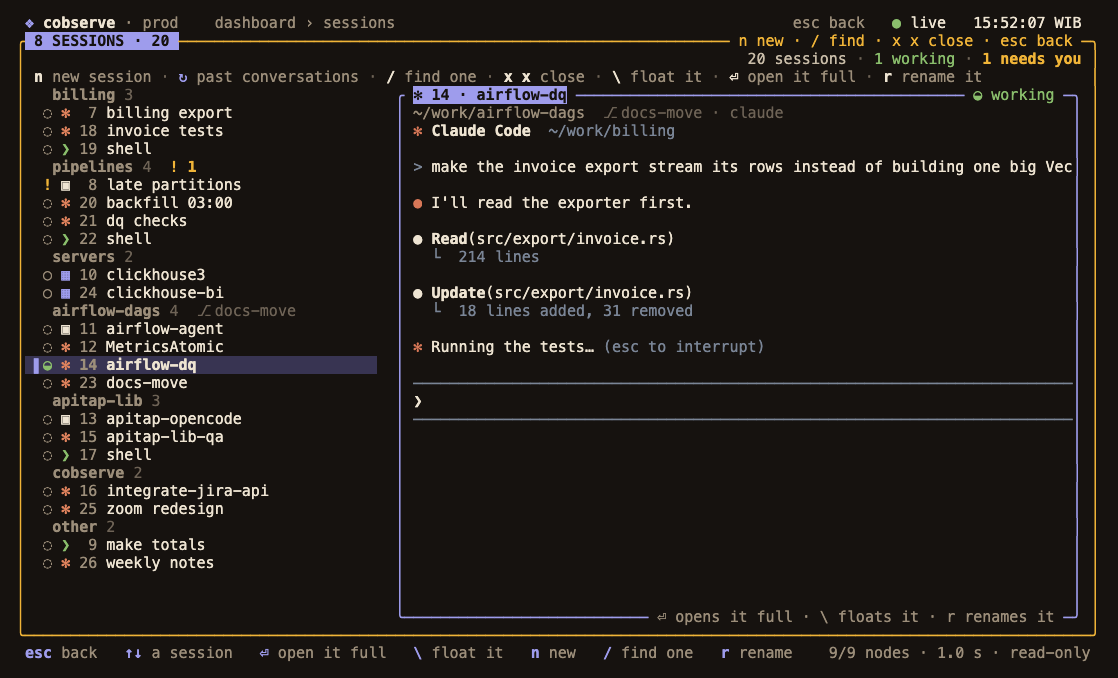
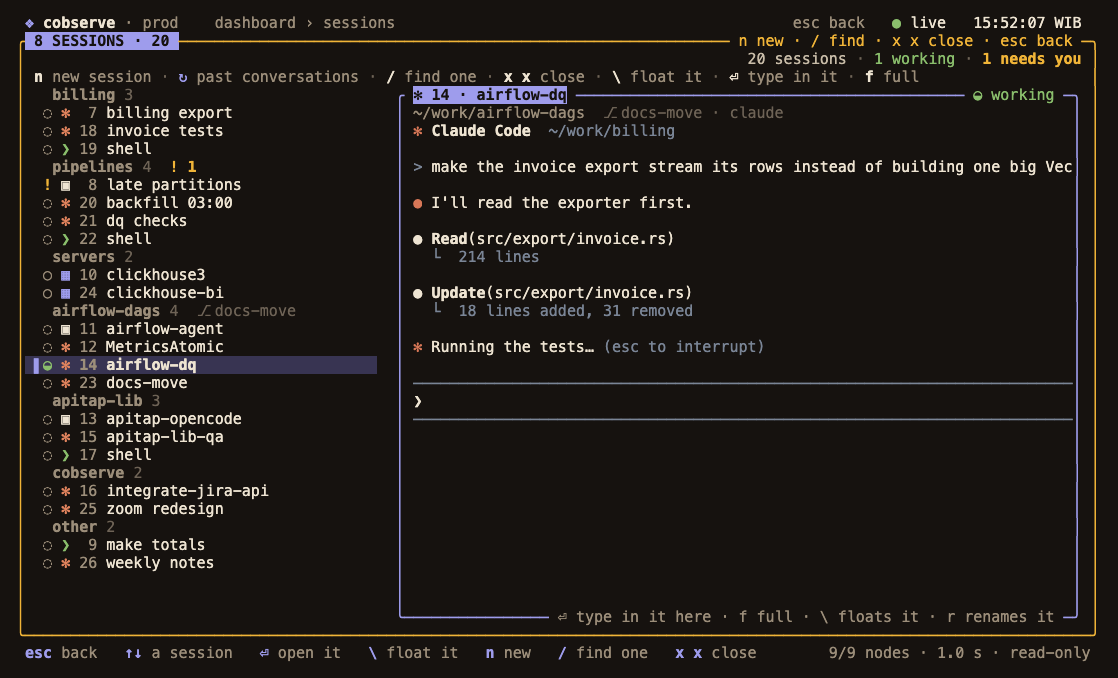
Type in the sessions preview, beside the list
With the list and the preview on screen, Enter now opens the chosen
session in the preview: its program takes every key, its PTY sized to the
preview, while the list stays in sight and the hint line says where the
keys go. ctrl+\ comes back to the list. f opens the session edge to edge
under the bar of tabs, which is what Enter still does on the grid, where
there is no preview to type in. A session opened from the picker opens
the same way.

Whether there is a preview is worked out from the terminal's size, so the
choice does not depend on the last frame drawn. A test covers both modes
and the way back; the sessions screens and screenshots are regenerated.

diff --git a/src/ui2/views/claude.rs b/src/ui2/views/claude.rs
@@ -108,6 +108,45 @@ pub fn draw(frame: &mut Frame, app: &App, theme: &Theme, inside: Rect) {
         pane(frame, app, theme, inside);
         return;
     }
+    let n = app.claude.list.len();
+    let shape = shape(inside.width, inside.height, n);
+    app.shell.sessions_preview.set(matches!(shape, Shape::List { preview_w: Some(_), .. }));
+    // Opened in the preview: the list stays, the program has the keys.
+    if app.shell.sessions_full
+        && !app.shell.sessions_spread
+        && let Shape::List { list_w, preview_w: Some(w) } = shape
+        && n > 0
+    {
+        let pane_r = {
+            let mut p = Painter::new(frame.buffer_mut());
+            let clip = Rect::new(inside.x.saturating_sub(1), inside.y, inside.width + 2, inside.height);
+            p.within(clip, |p| {
+                strip(p, app, theme, inside);
+                let top = if inside.height >= 16 {
+                    typing_hints(p, app, theme, Rect::new(inside.x, inside.y + 1, inside.width, 1));
+                    inside.y + 2
+                } else {
+                    inside.y + 1
+                };
+                let body = Rect::new(inside.x, top, inside.width, inside.bottom().saturating_sub(top));
+                let mut hits = Vec::new();
+                let page = list(p, app, theme, Rect::new(body.x, body.y, list_w, body.height), &mut hits);
+                app.shell.sessions_shape.set((0, page));
+                app.viewport.hits.borrow_mut().extend(hits);
+                let r = Rect::new(body.right() - w, body.y, w, body.height);
+                let index = app.claude.active;
+                let session = &app.claude.list[index];
+                let card = super::kit::Card::new(theme.accent())
+                    .title(card_title(app, session, index, true, theme))
+                    .right(state_spans(app, session, theme))
+                    .bottom(vec![Span::styled("typing here · ctrl+\\ the list", theme.muted())]);
+                let inner = card.draw(p, r);
+                Rect::new(inner.x, inner.y, inner.width + 1, inner.height)
+            })
+        };
+        pane(frame, app, theme, pane_r);
+        return;
+    }
     if app.shell.sessions_full && !app.claude.list.is_empty() {
         let bar = Rect::new(inside.x, inside.y, inside.width, 1);
         frame.render_widget(Paragraph::new(session_bar(app, theme, bar)), bar);
@@ -116,8 +155,6 @@ pub fn draw(frame: &mut Frame, app: &App, theme: &Theme, inside: Rect) {
     }
     // Every PTY keeps the size it has opened full: a thumbnail is a crop, never a resize.
     app.claude.want_size.set((inside.height.saturating_sub(1).max(1), inside.width));
-    let n = app.claude.list.len();
-    let shape = shape(inside.width, inside.height, n);
     let mut p = Painter::new(frame.buffer_mut());
     let clip = Rect::new(inside.x.saturating_sub(1), inside.y, inside.width + 2, inside.height);
     p.within(clip, |p| {
@@ -184,6 +221,18 @@ fn strip(p: &mut Painter<'_>, app: &App, theme: &Theme, i: Rect) {
     super::kit::put_spans_r(p, i.right(), i.y, counts.into_spans());
 }
 
+/// While typing in the preview: where the keys go, and the way back.
+fn typing_hints(p: &mut Painter<'_>, app: &App, theme: &Theme, r: Rect) {
+    let mut cells = Cells::new();
+    let who = app.claude.current().map(|s| s.label()).unwrap_or_default();
+    cells.push("⌨ ", theme.accent());
+    cells.push(format!("keys go to {who}"), theme.text2());
+    cells.push(" · ", theme.faint());
+    cells.push("ctrl+\\ ", theme.strong());
+    cells.push("the list", theme.muted());
+    super::kit::put_cells(p, r.x, r.y, cells, r.width as usize);
+}
+
 /// The keys that act here — or, while finding, the search field.
 fn hints(p: &mut Painter<'_>, app: &App, theme: &Theme, r: Rect) {
     let sessions = &app.claude;
@@ -217,9 +266,9 @@ fn hints(p: &mut Painter<'_>, app: &App, theme: &Theme, r: Rect) {
     cells.push(if narrow { "resume" } else { "past conversations" }, theme.muted());
     let resume_w = cells.width() as u16 - resume_x;
     let rest: [(&str, &str); 5] = if narrow {
-        [("/", "find"), ("x x", "close"), ("\\", "float"), ("⏎", "full"), ("r", "rename")]
+        [("/", "find"), ("x x", "close"), ("\\", "float"), ("⏎", "open"), ("f", "full")]
     } else {
-        [("/", "find one"), ("x x", "close"), ("\\", "float it"), ("⏎", "open it full"), ("r", "rename it")]
+        [("/", "find one"), ("x x", "close"), ("\\", "float it"), ("⏎", "type in it"), ("f", "full")]
     };
     for (key, word) in rest.into_iter().filter(|(key, _)| !(full && *key == "x x")) {
         cells.push(" · ", theme.faint());
@@ -314,7 +363,8 @@ fn session_card(p: &mut Painter<'_>, app: &App, theme: &Theme, r: Rect, index: u
     };
     let mut card = super::kit::Card::new(frame_style).title(card_title(app, session, index, lit, theme)).right(state_spans(app, session, theme));
     if lit {
-        card = card.bottom(vec![Span::styled("⏎ opens it full · \\ floats it · r renames it", theme.muted())]);
+        let open = if app.shell.sessions_preview.get() { "⏎ type in it here · f full" } else { "⏎ opens it full" };
+        card = card.bottom(vec![Span::styled(format!("{open} · \\ floats it · r renames it"), theme.muted())]);
     }
     let inner = card.draw(p, r);
     if inner.height == 0 {

diff --git a/src/ui2/views/tests.rs b/src/ui2/views/tests.rs
@@ -279,7 +279,7 @@ fn sessions_are_a_list_beside_claude_and_can_be_renamed() {
     assert!(screen.contains("n new session") && screen.contains("↻ past conversations"), "{screen}");
     // The zoom's keys are on the status bar.
     let keys = footer(&screen);
-    assert!(keys.contains("↑↓ a session") && keys.contains("⏎ open it full") && keys.contains("\\ float it"), "{keys}");
+    assert!(keys.contains("↑↓ a session") && keys.contains("⏎ open it") && keys.contains("\\ float it"), "{keys}");
     // x twice closes the session on screen.
     app.update(key(KeyCode::Char('x')));
     assert!(render(&app, 140, 40).contains("x again closes the session"));
@@ -1251,6 +1251,7 @@ fn fifty_sessions_fit_the_list_which_follows_the_one_on_screen_and_finds_one_by_
     // Opened full on a narrow terminal, the tabs round the one on screen, and how many either
     // side.
     app.shell.sessions_full = true;
+    app.shell.sessions_spread = true;
     let narrow = render(&app, 90, 30);
     let bar = row(&narrow, " 40 ");
     assert!(bar.contains("‹ ") && bar.contains(" ›"), "{narrow}");
@@ -1824,4 +1825,40 @@ fn twenty_sessions_are_a_list_with_a_preview_and_six_a_grid() {
     for (w, h) in [(40, 12), (80, 24), (250, 70)] {
         render(&app, w, h);
     }
+}
+
+#[test]
+fn enter_types_in_the_preview_beside_the_list_and_f_opens_it_edge_to_edge() {
+    let mut app = app_after(5);
+    crate::ui2::tests::with_many_sessions(&mut app, 20);
+    zoom(&mut app, 8);
+    app.shell.last_size.set((120, 36));
+    render(&app, 120, 36);
+    // ⏎: the program has the keys, the list stays in sight beside it.
+    app.update(key(KeyCode::Enter));
+    assert!(app.shell.sessions_full && !app.shell.sessions_spread);
+    let screen = render(&app, 120, 36);
+    assert!(screen.contains("keys go to airflow-dq") && screen.contains("weekly notes"), "the list beside it: {screen}");
+    assert!(screen.contains("typing here · ctrl+\\ the list"), "{screen}");
+    assert!(app.viewport.hits.borrow().iter().any(|(_, h)| *h == crate::app::Hit::Pane), "the preview takes the mouse");
+    let (rows, cols) = app.claude.want_size.get();
+    assert!(cols < 80 && rows > 20, "the program sized to the preview: {rows}×{cols}");
+    // A key is the program's: `f` does not leave.
+    app.update(key(KeyCode::Char('f')));
+    assert!(app.shell.sessions_full && !app.shell.sessions_spread);
+    // ctrl+\ back to the list; `f` there opens it edge to edge.
+    app.update(ctrl('\\'));
+    assert!(!app.shell.sessions_full);
+    app.update(key(KeyCode::Char('f')));
+    assert!(app.shell.sessions_full && app.shell.sessions_spread);
+    let screen = render(&app, 120, 36);
+    assert!(!screen.contains("weekly notes ") || screen.contains("‹"), "edge to edge, the others on a bar: {screen}");
+    // On the grid there is no preview: ⏎ opens it edge to edge.
+    app.update(ctrl('\\'));
+    let mut few = app_after(5);
+    crate::ui2::tests::with_many_sessions(&mut few, 3);
+    zoom(&mut few, 8);
+    few.shell.last_size.set((120, 36));
+    few.update(key(KeyCode::Enter));
+    assert!(few.shell.sessions_full && few.shell.sessions_spread);
 }

diff --git a/src/action.rs b/src/action.rs
@@ -181,7 +181,8 @@ pub static ACTIONS: &[Action] = &[
     Action { id: "tape-note", label: "note", phrase: "note on the tape", detail: "a line of yours, kept with the events", keys: &["n"], shown: "n", scope: Scope::Zoomed(PanelId::Tape), rank: 3, enabled: always, run: |app, _| app.shell.note = Some(String::new()) },
     Action { id: "tape-export", label: "export report", phrase: "export the incident report", detail: "markdown with every denominator (feature B3)", keys: &["y"], shown: "y", scope: Scope::Zoomed(PanelId::Tape), rank: 4, enabled: always, run: later },
     Action { id: "sessions-choose", label: "a session", phrase: "choose a session", detail: "↑↓ one by one · ←→ the card beside, or the next project · PgUp PgDn a page", keys: &["Up", "Down", "j", "k", "Left", "Right", "h", "l", "PageUp", "PageDown", "Home", "End"], shown: "↑↓", scope: Scope::Zoomed(PanelId::Sessions), rank: 1, enabled: always, run: crate::ui2::nav::choose },
-    Action { id: "sessions-open", label: "open it full", phrase: "open the session full", detail: "its program takes every key · ctrl+\\ comes back", keys: &["Enter"], shown: "⏎", scope: Scope::Zoomed(PanelId::Sessions), rank: 2, enabled: always, run: |app, _| crate::ui2::sessions::open_full(app) },
+    Action { id: "sessions-open", label: "open it", phrase: "open the session", detail: "its program takes every key — in the preview beside the list, or edge to edge on the grid · ctrl+\\ comes back", keys: &["Enter"], shown: "⏎", scope: Scope::Zoomed(PanelId::Sessions), rank: 2, enabled: always, run: |app, _| crate::ui2::sessions::open_full(app) },
+    Action { id: "sessions-spread", label: "full", phrase: "open the session edge to edge", detail: "the whole zoom, the list out of the way · ctrl+\\ comes back", keys: &["f"], shown: "f", scope: Scope::Zoomed(PanelId::Sessions), rank: 8, enabled: always, run: |app, _| crate::ui2::sessions::open_spread(app) },
     Action { id: "sessions-float", label: "float it", phrase: "float the session", detail: "over any panel", keys: &["\\"], shown: "\\", scope: Scope::Zoomed(PanelId::Sessions), rank: 3, enabled: always, run: |app, _| crate::ui2::sessions::open(app) },
     Action { id: "sessions-new", label: "new", phrase: "new session", detail: "the folder picker, then it starts there", keys: &["n"], shown: "n", scope: Scope::Zoomed(PanelId::Sessions), rank: 4, enabled: always, run: |app, _| app.ask_new_session(None) },
     Action { id: "sessions-find", label: "find one", phrase: "find a session", detail: "by name, folder, kind or number", keys: &["/"], shown: "/", scope: Scope::Zoomed(PanelId::Sessions), rank: 5, enabled: always, run: |app, _| app.claude.mode = crate::claude::Mode::Finding { query: String::new(), at: 0 } },

diff --git a/src/ui2/sessions.rs b/src/ui2/sessions.rs
@@ -194,7 +194,7 @@ pub fn zoom_key(app: &mut App, key: KeyEvent) -> bool {
         app.on_key_passthrough(key);
         // A session just opened from the picker is the one to work in: full, at once.
         if opening && app.claude.list.len() > before && matches!(app.claude.mode, Mode::Typing) {
-            app.shell.sessions_full = true;
+            open_full(app);
         }
         return true;
     }
@@ -209,8 +209,28 @@ pub fn zoom_key(app: &mut App, key: KeyEvent) -> bool {
     false
 }
 
-/// `⏎` on the zoomed list: the session full; its program takes every key.
+/// `⏎` on the zoomed sessions: the chosen one opened, its program taking every key — in the
+/// preview beside the list when there is one, so the others stay in sight; edge to edge on the
+/// grid.
 pub fn open_full(app: &mut App) {
+    // The zoom's inside at the terminal's size: the frame and the bars take two rows and four
+    // columns each way.
+    let (w, h) = app.shell.last_size.get();
+    let preview = if w > 0 && h > 0 {
+        let shape = crate::ui2::views::claude::shape(w.saturating_sub(4), h.saturating_sub(4), app.claude.list.len());
+        matches!(shape, crate::ui2::views::claude::Shape::List { preview_w: Some(_), .. })
+    } else {
+        app.shell.sessions_preview.get()
+    };
+    open_as(app, !preview);
+}
+
+/// `f`: the chosen one opened edge to edge, wherever it is.
+pub fn open_spread(app: &mut App) {
+    open_as(app, true);
+}
+
+fn open_as(app: &mut App, spread: bool) {
     if app.claude.list.is_empty() {
         app.ask_new_session(Some(Kind::Claude));
         return;
@@ -218,6 +238,7 @@ pub fn open_full(app: &mut App) {
     let active = app.claude.active;
     app.claude.select(active);
     app.shell.sessions_full = true;
+    app.shell.sessions_spread = spread;
 }
 
 /// `x x` on the zoomed list.

diff --git a/src/ui2/state.rs b/src/ui2/state.rs
@@ -90,8 +90,10 @@ pub struct ShellState {
     /// `n`: the note being written.
     pub note: Option<String>,
     pub float: Option<Float>,
-    /// The sessions zoom with the session opened full: every key is the program's.
+    /// The sessions zoom with the session opened: every key is the program's.
     pub sessions_full: bool,
+    /// Opened edge to edge rather than in the preview beside the list.
+    pub sessions_spread: bool,
     /// A prompt for a Claude session that is still starting: its id, the text, and when asked.
     pub pending_prompt: Option<(u64, String, SystemTime)>,
     /// The F-key fallback has been told once.
@@ -119,6 +121,8 @@ pub struct ShellState {
     /// The zoomed sessions as last drawn: the rows of a grid column (0 for the list), and the
     /// sessions a page holds — what `← →` and `PgUp PgDn` move by.
     pub sessions_shape: std::cell::Cell<(u16, u16)>,
+    /// Whether the zoomed sessions, as last drawn, had a preview beside the list to type in.
+    pub sessions_preview: std::cell::Cell<bool>,
 }
 
 impl Default for ShellState {
@@ -139,6 +143,7 @@ impl Default for ShellState {
             note: None,
             float: None,
             sessions_full: false,
+            sessions_spread: false,
             pending_prompt: None,
             fkeys_told: false,
             wake: false,
@@ -153,6 +158,7 @@ impl Default for ShellState {
             tiles_per_row: std::cell::Cell::new(1),
             zoom_tiles_per_row: std::cell::Cell::new(1),
             sessions_shape: std::cell::Cell::new((1, 1)),
+            sessions_preview: std::cell::Cell::new(false),
         }
     }
 }

diff --git a/src/ui2/tests.rs b/src/ui2/tests.rs
@@ -846,6 +846,7 @@ fn theme_and_prayer_from_the_palette() {
 fn dump() {
     let (w, h) = std::env::var("SIZE").ok().and_then(|s| s.split_once('x').and_then(|(w, h)| Some((w.parse().ok()?, h.parse().ok()?)))).unwrap_or((120, 36));
     let mut app = app_after(30);
+    app.shell.last_size.set((w, h));
     match std::env::var("SESSIONS").ok().and_then(|n| n.parse::<usize>().ok()) {
         Some(4) => with_running_sessions(&mut app),
         Some(n) => with_many_sessions(&mut app, n),

diff --git a/docs/redesign/09-zooms.md b/docs/redesign/09-zooms.md
@@ -1372,7 +1372,12 @@ lose it.
 - **JIRA.** A block that is overdue or due soon carries a `▎` down its left edge in that severity
   (the cursor's `▌` wins). The ticket card's third line is the link alone: its keys are in its
   title.
-- **SESSIONS.** A session opened from the picker opens full at once — it is the one to work in.
+- **SESSIONS.** With the list and the preview on screen, `⏎` opens the chosen session *in the
+  preview*: its program takes every key (its PTY sized to the preview) while the list stays in
+  sight, the hint line saying where the keys go; `ctrl+\` comes back to the list. `f` opens it
+  edge to edge under the bar of tabs, as `⏎` does on the grid (which has no preview to type in).
+  The owner asked for it: working beside the list, not only full. A session opened from the
+  picker opens the same way at once — it is the one to work in.
   The dashboard's panel 8 and the floating pane's title say a session's state in the zoom's words
   (`◐ working`, `! needs you`, `○ idle`, `✕ ended`, `↻ kept`, `◌ starting`).
 - **Tests.** `src/ui2/tests.rs::the_zooms_render_at_every_size_without_a_panic` renders the four

diff --git a/docs/redesign/02-panels.md b/docs/redesign/02-panels.md
@@ -127,8 +127,8 @@ number, name, folder ⎇ branch, state (`● working` green, `! approval` amber,
 
 Zoomed (`09-zooms.md` §4): while the sessions fit as cards, a grid of live thumbnails — each the
 bottom of its own screen — and past that every session a line, grouped by project, beside the
-chosen one's screen; `⏎` opens it full: the PTY takes the body and every key goes to the program,
-`ctrl+\` as today.
+chosen one's screen; `⏎` opens it — in that preview, beside the list, or edge to edge on the grid
+(`f` edge to edge anywhere): every key goes to the program, `ctrl+\` comes back to the list.
 
 ## Overlays (drawn over whichever screen is under them)
 

diff --git a/docs/redesign/06-build-order.md b/docs/redesign/06-build-order.md
@@ -133,7 +133,7 @@ touches are the Airflow tasks read for the Gantt without a page (`App::airflow_t
 `ClaudePane::last_output`, and the fake's tasks spread over their run.
 
 Acceptance: `*-zoom-queue.txt`, `120x36-cancel-dialog.txt`, `*-zoom-airflow.txt`,
-`*-zoom-jira.txt`, `*-zoom-sessions.txt`, `*-zoom-sessions-list.txt`; the zooms' resize fuzz.
+`*-zoom-jira.txt`, `*-zoom-sessions.txt`, `*-zoom-sessions-list.txt`, `120x36-zoom-sessions-typing.txt`; the zooms' resize fuzz.
 
 ## Phase 7 — feature wave 1 · Phase 8 — wave 2
 
